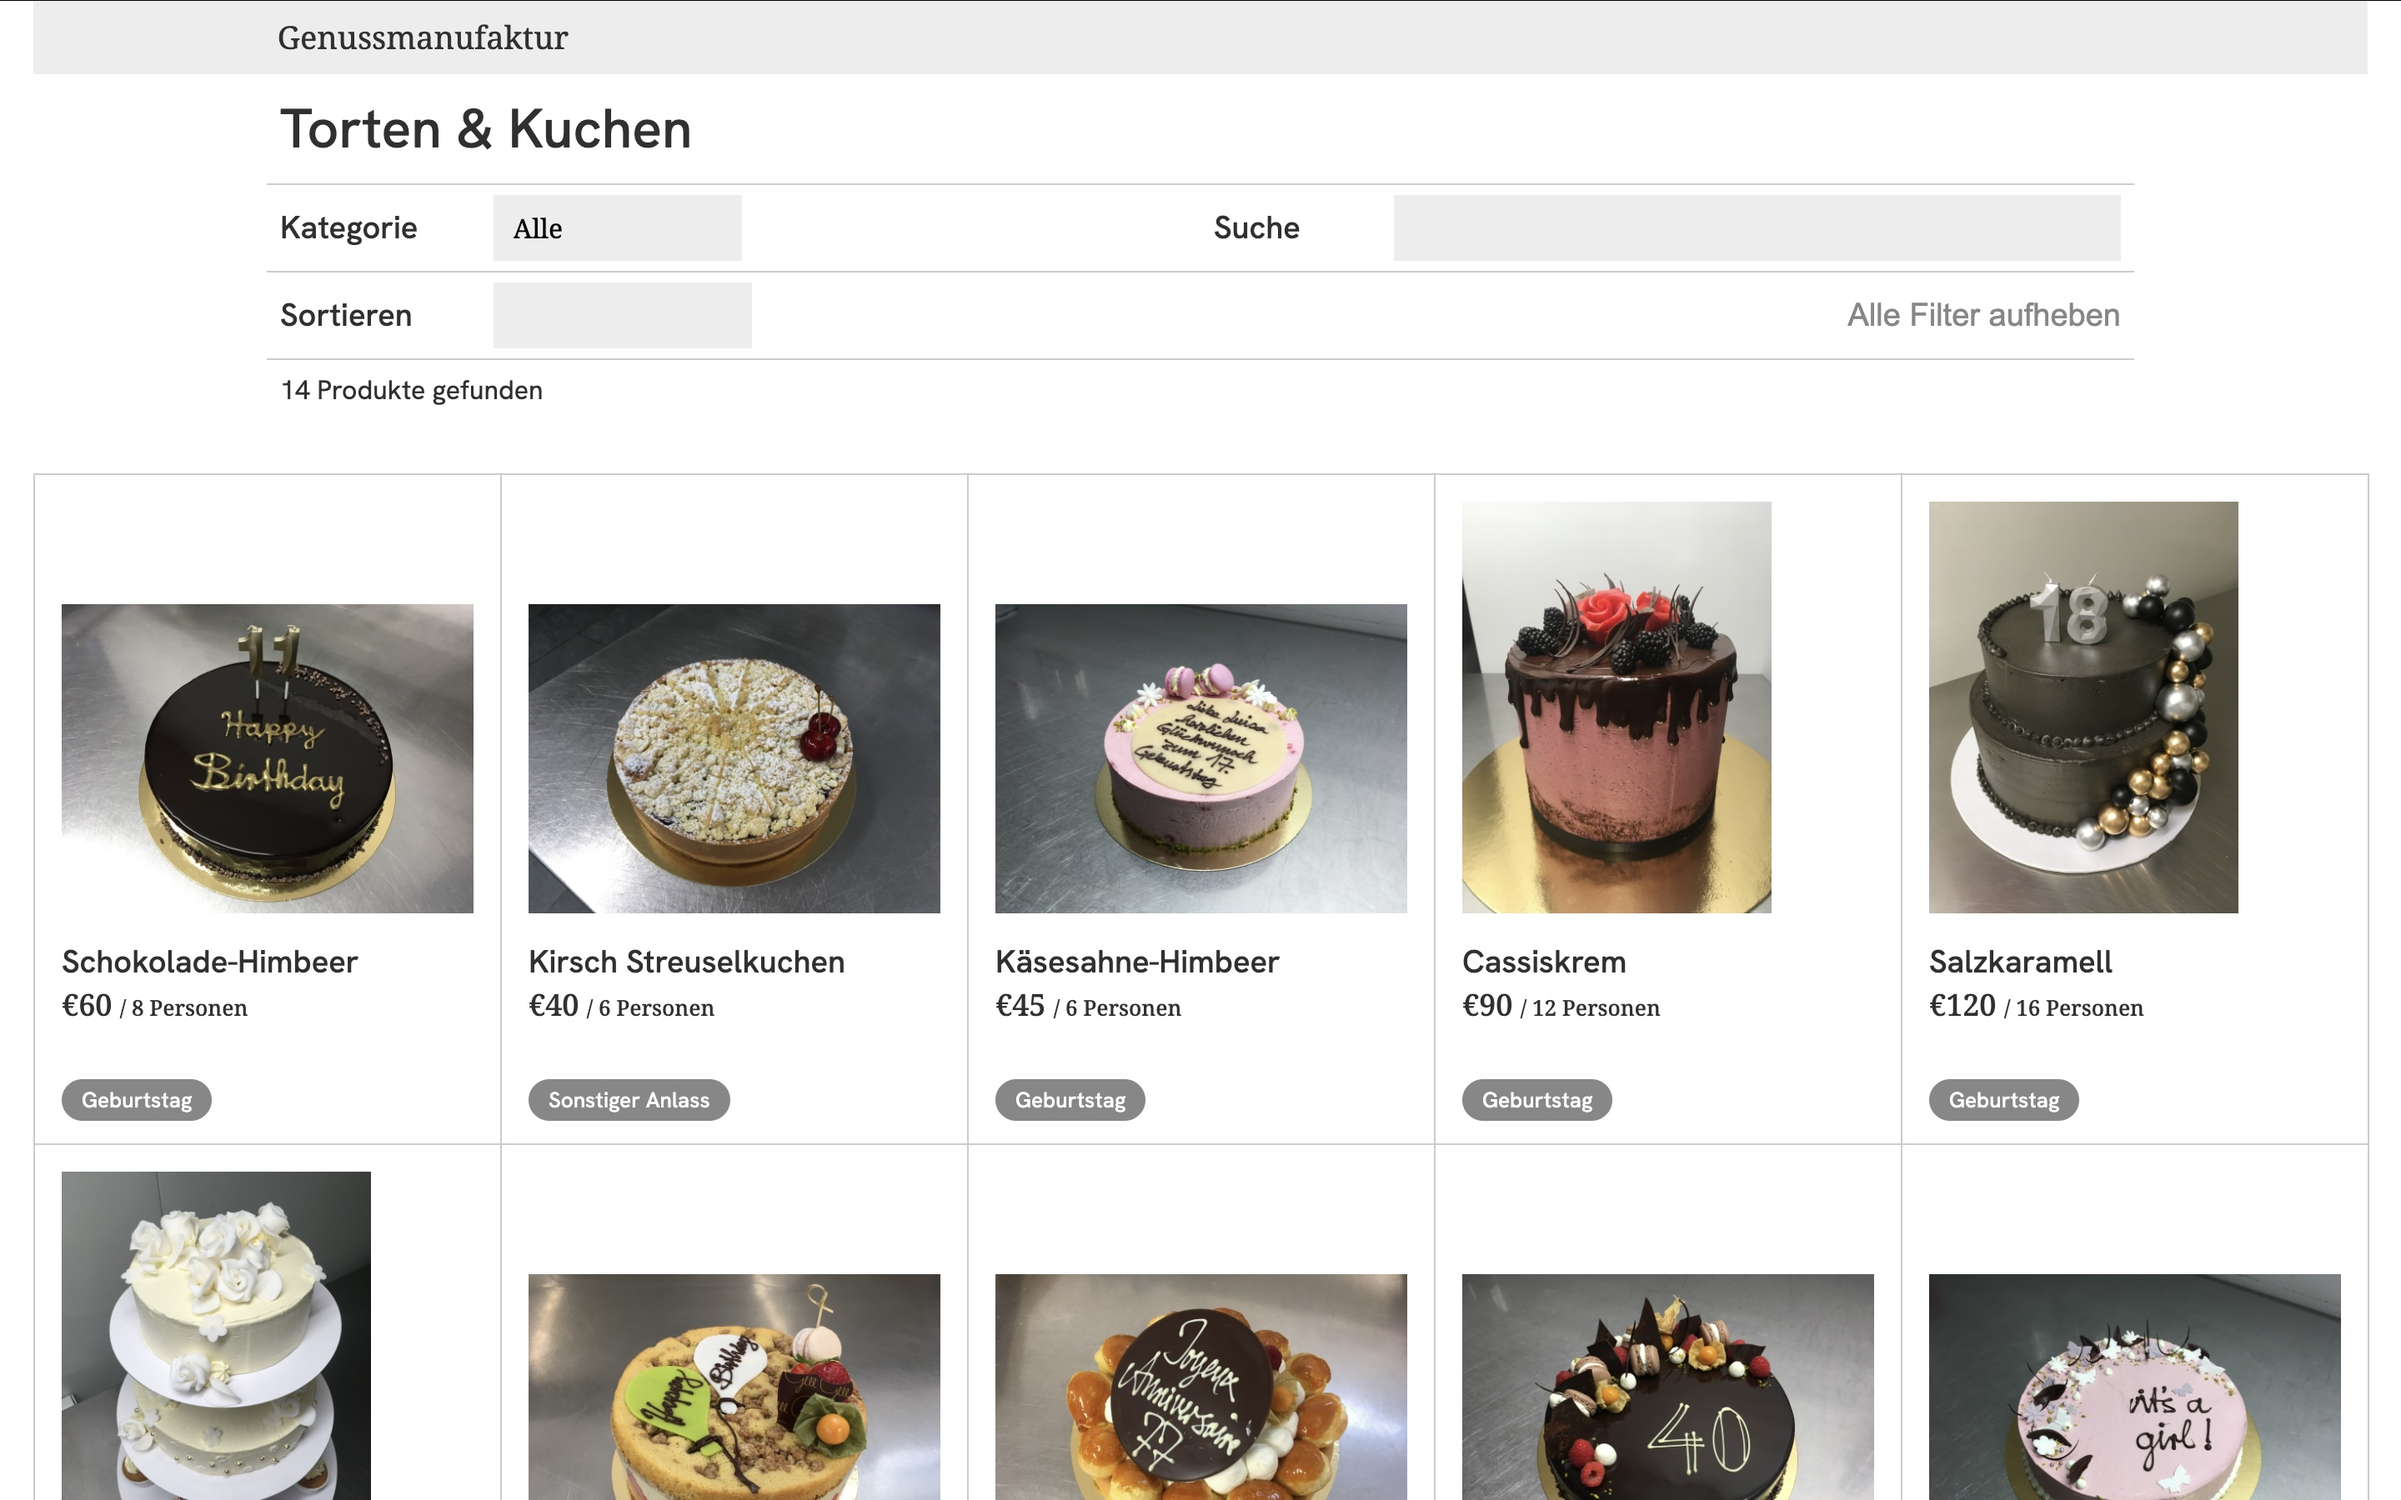
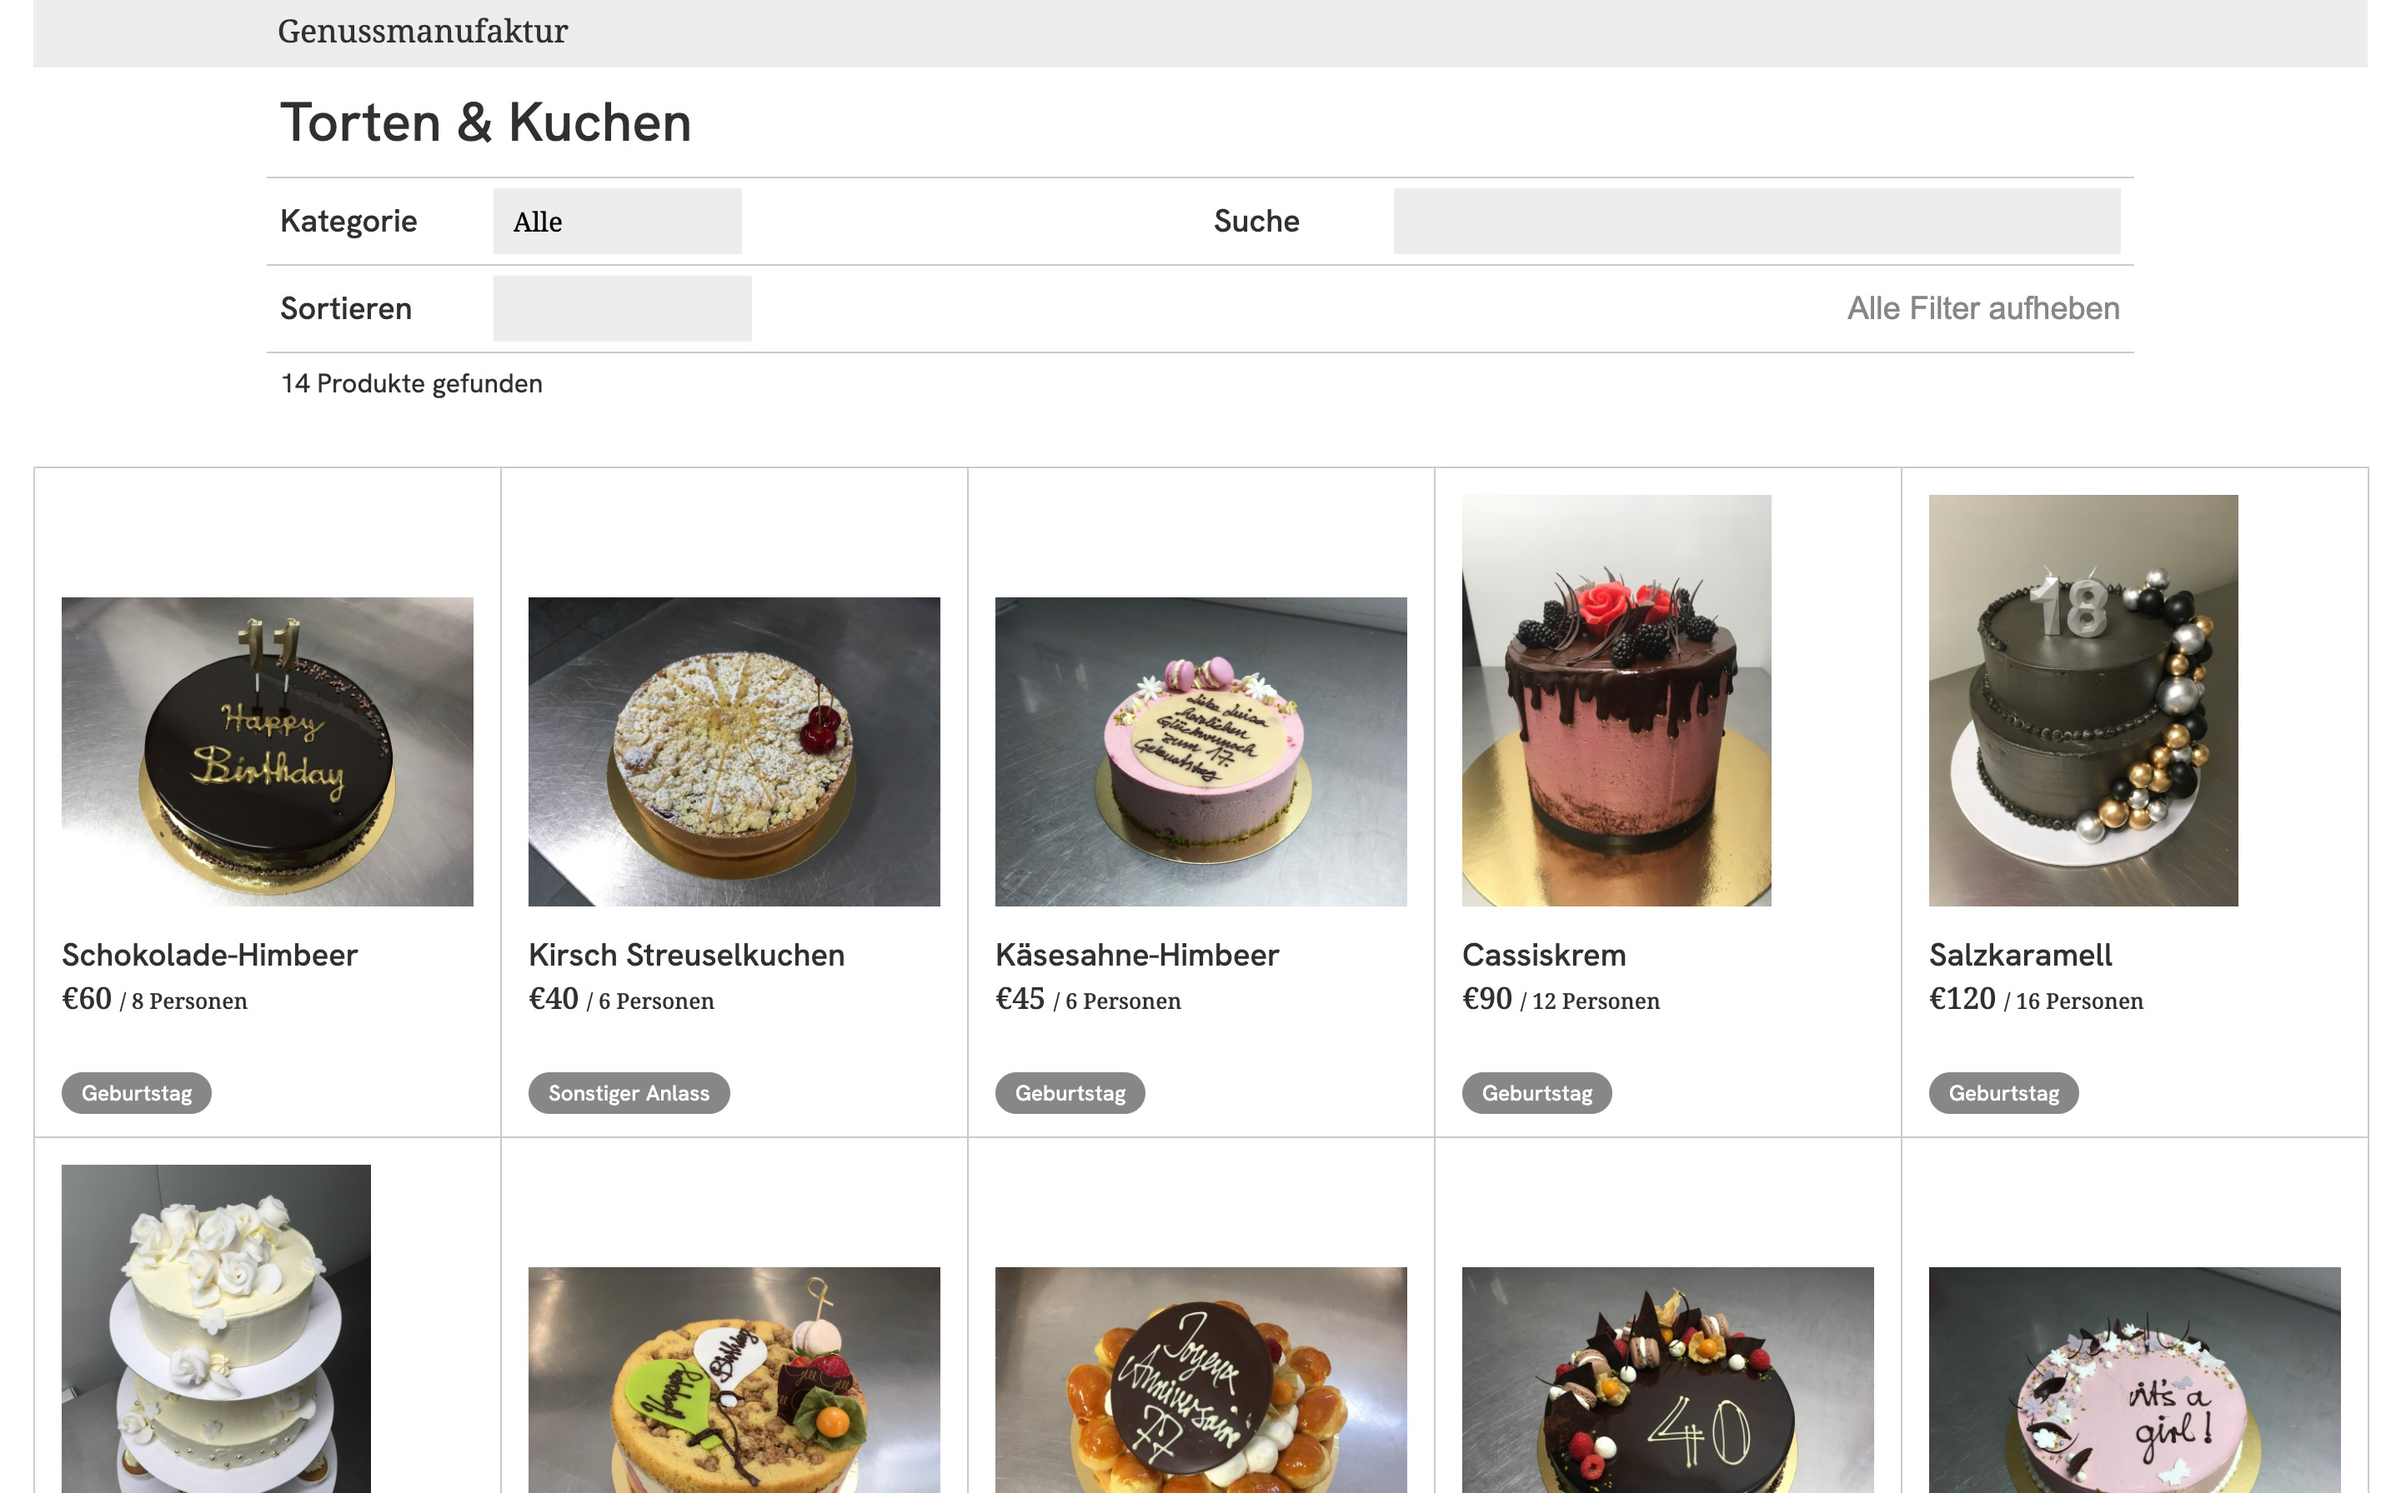
changes in copy

diff --git a/src/components/Education/index.jsx b/src/components/Education/index.jsx
@@ -5,7 +5,7 @@ export default function Education() {
   return (
     <Section>
       <div>
-        <H3>Kurse</H3>
+        <H3>Weiterbildung</H3>
         <Ul>
           <li>• The Ultimate React Course 2024</li>
             <Ul>
@@ -29,6 +29,9 @@ export default function Education() {
           <li>• Master Typografie</li>
           <li>• BA(Hons) Graphic and Media Design</li>
         </Ul>
+      </div>
+      <div>
+      <a href="https://github.com/svnhrzg/my-portfolio/tree/881d8010b16daf16da45125df2d61ea9f166ff36/src" target='_blank' rel="noreferrer">github</a>
       </div>
     </Section>
   )

diff --git a/src/components/Project/styles.js b/src/components/Project/styles.js
@@ -10,12 +10,12 @@ export const Container = styled.div`
   scroll-snap-align: start;
 
   @media(max-width: 960px) {
-    height: 100%;
     padding-bottom: 1.5rem;
     padding-inline: 2rem;
   }
 
   @media(max-width: 600px) {
+    height: 100%;
     padding-inline: 1.25rem;
   }
 `
@@ -70,5 +70,6 @@ export const Wrapper = styled.div`
 export const Image = styled.img`
   object-fit: cover;
   cursor: pointer;
+  /* box-shadow: 0.25rem 0.5rem 0.5rem 0 rgba(0 0 0 / 0.1); */
   /* height: 100%; */
 `

diff --git a/src/components/Education/styles.js b/src/components/Education/styles.js
@@ -10,6 +10,17 @@ export const Section = styled.section`
   gap: 1.5rem;
   scroll-snap-align: start;
 
+  & * a {
+    text-decoration: none;
+    color: white;
+    border-bottom: 1px solid #fff;
+    transition: border-bottom 0.2s;
+  }
+
+  & * a:hover {
+    border-bottom: 1px solid transparent;
+  }
+
   @media (max-width: 960px) {
     padding-inline: 2rem;
     padding-block: 2.5rem;

diff --git a/src/components/Header/styles.js b/src/components/Header/styles.js
@@ -7,7 +7,7 @@ export const Nav = styled.nav`
   padding-inline: 3rem;
   padding-block: 0.5rem;
   font-size: var(--fs-small);
-  background: #fff;
+  background: var(--clr-grey-light);
 
   justify-content: space-between;
   align-items: center;

diff --git a/src/styles.js b/src/styles.js
@@ -56,7 +56,7 @@ html {
 
 body {
   width: 100%;
-  max-width: 1600px;
+  max-width: 1400px;
   margin-inline: auto;
 }
 
